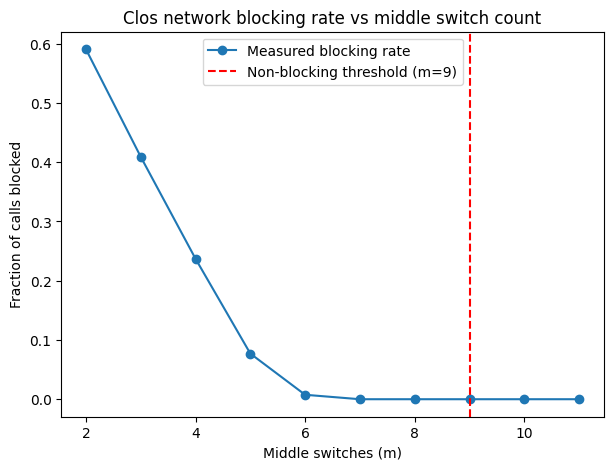
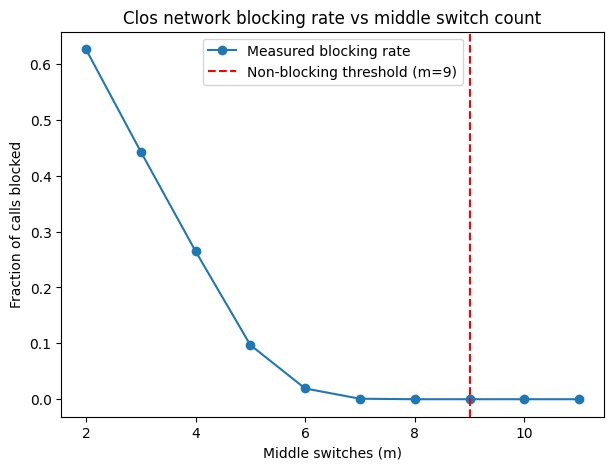
remove report, will write it on overleaf instead

diff --git a/routing/clos_blocking.py b/routing/clos_blocking.py
@@ -6,58 +6,58 @@ input switch's calls is using it, and busy for an output switch the
 same way. A new call from input switch i to output switch j can
 only use a middle switch that is free on both sides. If none is
 free, the call is blocked, even though a physical path exists.
+
+Traffic is generated as a full permutation (every one of the r*n
+inputs sent to a distinct output). This guarantees every input
+switch sends exactly n calls and every output switch receives
+exactly n calls, matching the n ports each switch actually has, and
+matches how Clos's theorem itself is usually stated (in terms of
+permutations).
 """
 
 import random
 
 
-class ClosCallState:
-    """Tracks which middle switches are busy for each input and output switch."""
+def try_route_permutation(r, n, m, perm):
+    """
+    Tries to route a full permutation through a Clos network
+    (r input/output switches, n inputs each, m middle switches).
+    Returns the number of calls that were blocked.
+    """
+    input_busy = [set() for _ in range(r)]
+    output_busy = [set() for _ in range(r)]
+    blocked_count = 0
 
-    def __init__(self, r, m):
-        self.m = m
-        self.busy_at_input = [set() for _ in range(r)]
-        self.busy_at_output = [set() for _ in range(r)]
+    for source in range(r * n):
+        in_switch = source // n
+        out_switch = perm[source] // n
 
-    def attempt_call(self, in_switch, out_switch):
-        """
-        Tries to route one call from in_switch to out_switch.
-        Returns the middle switch used, or None if blocked.
-        """
-        for mid in range(self.m):
-            if mid not in self.busy_at_input[in_switch] and mid not in self.busy_at_output[out_switch]:
-                self.busy_at_input[in_switch].add(mid)
-                self.busy_at_output[out_switch].add(mid)
-                return mid
-        return None
+        chosen = None
+        for mid in range(m):
+            if mid not in input_busy[in_switch] and mid not in output_busy[out_switch]:
+                chosen = mid
+                break
+
+        if chosen is None:
+            blocked_count += 1
+            continue
+
+        input_busy[in_switch].add(chosen)
+        output_busy[out_switch].add(chosen)
+
+    return blocked_count
 
 
 def simulate_random_traffic(r, n, m, seed=None):
     """
-    Fills up a Clos network (r input/output switches, n ports each,
-    m middle switches) with random calls, respecting the n-port
-    limit per switch. Returns the number of calls that were blocked.
+    Builds one random permutation of the r*n inputs and routes it.
+    Returns the number of calls that were blocked.
     """
     if seed is not None:
         random.seed(seed)
-
-    state = ClosCallState(r, m)
-    blocked_count = 0
-
-    # each input switch makes n calls, to random output switches
-    # that still have a free port
-    output_remaining = [n] * r
-    for in_switch in range(r):
-        available_outputs = [j for j in range(r) if output_remaining[j] > 0]
-        random.shuffle(available_outputs)
-        chosen_outputs = available_outputs[:n]
-        for out_switch in chosen_outputs:
-            output_remaining[out_switch] -= 1
-            result = state.attempt_call(in_switch, out_switch)
-            if result is None:
-                blocked_count += 1
-
-    return blocked_count
+    perm = list(range(r * n))
+    random.shuffle(perm)
+    return try_route_permutation(r, n, m, perm)
 
 
 if __name__ == "__main__":

diff --git a/tests/check_clos_blocking.py b/tests/check_clos_blocking.py
@@ -1,0 +1,37 @@
+"""
+Checks Clos's non-blocking guarantee directly: at m = 2n - 1 or
+above, no random permutation should ever get blocked. Also checks
+that the blocking detector is not trivially broken, by confirming
+blocking does happen sometimes when m is small.
+"""
+
+from routing.clos_blocking import simulate_random_traffic
+
+
+def check_non_blocking_guarantee(r, n, trials=500):
+    """At m = 2n - 1, no trial should show any blocked call."""
+    m = 2 * n - 1
+    total_blocked = 0
+    for seed in range(trials):
+        total_blocked += simulate_random_traffic(r, n, m, seed=seed)
+    if total_blocked == 0:
+        print(f"r={r}, n={n}, m={m} (threshold): 0 blocked calls in {trials} trials, as expected.")
+    else:
+        print(f"PROBLEM: r={r}, n={n}, m={m} (threshold) had {total_blocked} blocked calls, expected 0.")
+
+
+def check_blocking_can_happen(r, n, small_m, trials=100):
+    """With a small m, at least some blocking should show up, or the detector may be broken."""
+    total_blocked = 0
+    for seed in range(trials):
+        total_blocked += simulate_random_traffic(r, n, small_m, seed=seed)
+    if total_blocked > 0:
+        print(f"r={r}, n={n}, m={small_m} (small): {total_blocked} blocked calls in {trials} trials, as expected.")
+    else:
+        print(f"PROBLEM: r={r}, n={n}, m={small_m} (small) had 0 blocked calls — check the detector.")
+
+
+if __name__ == "__main__":
+    check_non_blocking_guarantee(r=8, n=5)
+    check_non_blocking_guarantee(r=6, n=3)
+    check_blocking_can_happen(r=8, n=5, small_m=2)

diff --git a/run_demo.py b/run_demo.py
@@ -1,6 +1,6 @@
 """
 Demo: sends a batch of traffic through each network and prints the
-paths taken. Shows the three networks and their routing working
+paths taken. Shows all four networks and their routing working
 together.
 """
 
@@ -9,9 +9,11 @@ import random
 from networks.baseline import build_baseline_network
 from networks.benes import build_benes_network
 from networks.clos import build_clos_network
+from networks.xgft import build_xgft_network
 from routing.baseline_routing import route_baseline
 from routing.benes_routing import route_benes_permutation
 from routing.clos_routing import route_clos
+from routing.xgft_routing import route_xgft
 
 
 def demo_baseline(n, num_requests):
@@ -45,7 +47,21 @@ def demo_clos(r, n, m, num_requests):
         print(f"input {source} -> output {destination}: {path}")
 
 
+def demo_xgft(h, m, w, num_requests):
+    print(f"\n--- XGFT fat-tree, h={h}, m={m}, w={w} ---")
+    build_xgft_network(h, m, w)  # network built, not printed here
+    num_leaves = m ** h
+    for _ in range(num_requests):
+        source = random.randrange(num_leaves)
+        destination = random.randrange(num_leaves)
+        if source == destination:
+            continue
+        path = route_xgft(source, destination, h, m, w)
+        print(f"leaf {source} -> leaf {destination}: {path}")
+
+
 if __name__ == "__main__":
     demo_baseline(n=8, num_requests=5)
     demo_benes(n=8)
     demo_clos(r=4, n=3, m=5, num_requests=5)
+    demo_xgft(h=2, m=2, w=2, num_requests=5)

diff --git a/blocking_analysis.py b/blocking_analysis.py
@@ -13,7 +13,7 @@ import matplotlib.pyplot as plt
 from routing.clos_blocking import simulate_random_traffic
 
 
-def measure_blocking_rate(r, n, m, num_trials=50):
+def measure_blocking_rate(r, n, m, num_trials=300):
     """Average fraction of calls blocked, across num_trials random traffic patterns."""
     total_calls = r * n
     total_blocked = 0
@@ -22,7 +22,7 @@ def measure_blocking_rate(r, n, m, num_trials=50):
     return total_blocked / (total_calls * num_trials)
 
 
-def measure_blocking_by_m(r, n, m_values, num_trials=50):
+def measure_blocking_by_m(r, n, m_values, num_trials=300):
     """Blocking rate for each m in m_values."""
     rates = []
     for m in m_values:

diff --git a/networks/xgft.py b/networks/xgft.py
@@ -20,6 +20,8 @@ def build_xgft_network(h, m, w):
     if h < 1 or m < 2 or w < 1:
         raise ValueError("h must be at least 1, m at least 2, w at least 1")
 
+    # undirected on purpose: unlike the other three networks, fat-tree
+    # links carry traffic both up and down
     graph = nx.Graph()
 
     num_leaves = m ** h

diff --git a/README.md b/README.md
@@ -5,7 +5,7 @@ used to connect many processors together in a parallel computer.
 
 ## What it does
 
-Three network types are built and routed:
+Four network types are built and routed:
 
 - **Baseline network** — connects N inputs to N outputs through
   small 2x2 switches arranged in stages. Routing is done by
@@ -31,11 +31,10 @@ For each network, the project can:
 - `routing/` — finds paths through each network
 - `tests/` — checks the routing against the built networks
 - `pictures/` — saved drawings of each network
-- `run_demo.py` — sends some traffic through all three networks
-- `draw_networks.py` — draws and saves the three pictures
+- `run_demo.py` — sends some traffic through all four networks
+- `draw_networks.py` — draws and saves the four pictures
 - `scaling_analysis.py` — measures and plots how network size grows
 - `blocking_analysis.py` — measures and plots Clos blocking rate vs middle switch count
-- `REPORT.md` — short write-up of the theory and results
 
 ## How to run it
 
@@ -58,6 +57,7 @@ python3 -m tests.check_baseline_routing
 python3 -m tests.check_benes_routing
 python3 -m tests.check_clos_routing
 python3 -m tests.check_xgft_routing
+python3 -m tests.check_clos_blocking
 ```
 
 Run the traffic demo:
